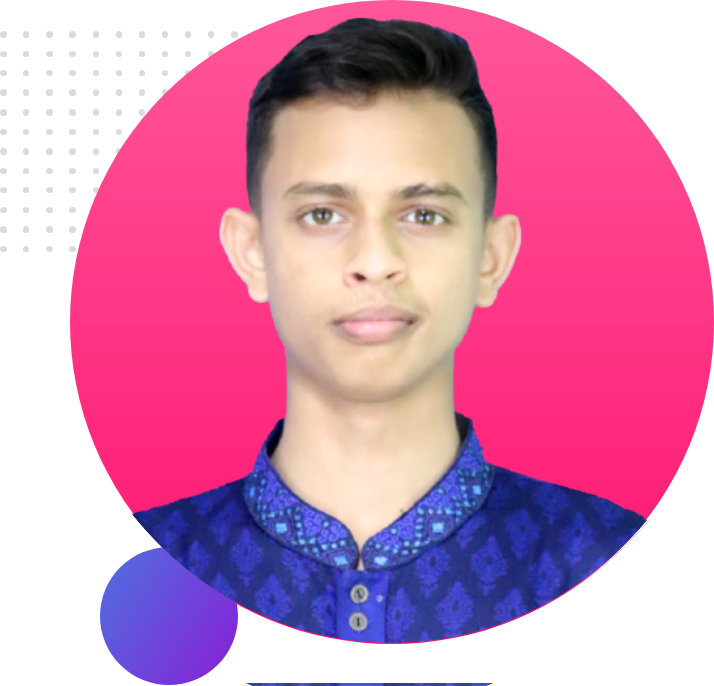
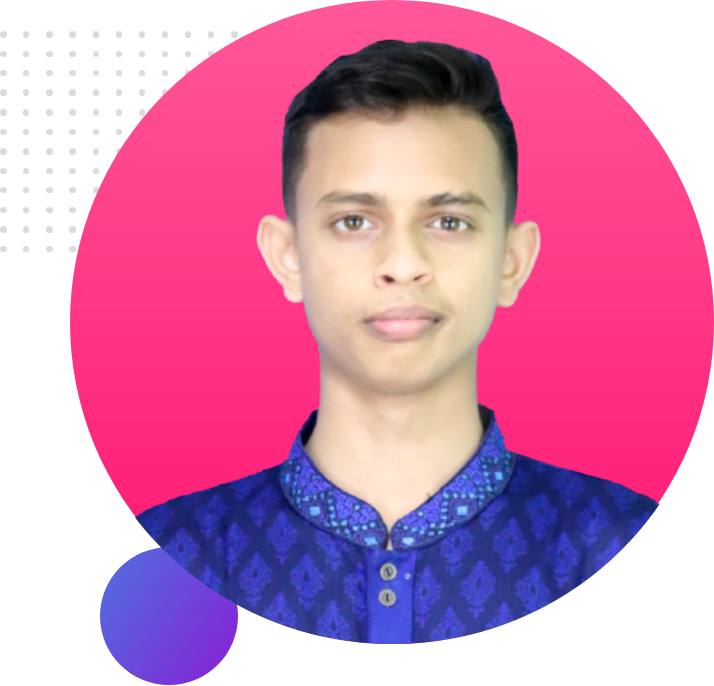
dream section done

Changed region(s): [[0.1849, 0.0, 0.9244, 0.949], [0.3389, 0.9796, 0.6779, 1.0]]

diff --git a/index.html b/index.html
@@ -29,6 +29,25 @@
             <img src="img/mahmud1.png" class="img">
         </div>
     </section>
+    <section class="dream-big">
+        <div class="left-column">
+            <img src="img/mahmud2.png" alt="">
+        </div>
+        <div class="right-column">
+            <h1>Dream Big</h1>
+            <h3>Become a web developer</h3>
+            <div>
+                <p class="d">I already learned the basic HTML and CSS. I can build any simple website. I can even teach
+                    my grandma how
+                    to make simple website. My goal is to build 3 websites and learn advanced topics. I can build any
+                    simple but
+                    gorgeous website.</p>
+            </div>
+            <div class="resume">
+                <a href="https://www.facebook.com/mahmudqudrati/" target="_blank" class="hire-btn">DOWNLOAD RESUME</a>
+            </div>
+        </div>
+    </section>
 </body>
 
 </html>

diff --git a/style.css b/style.css
@@ -24,15 +24,14 @@ h1 {
     background-image: url(img/top-banner.png);
     background-repeat: no-repeat;
 }
-.img{
-    width: 440px;
-    height: 480px;
-    margin-left: 20%;
+.right-col .img{
+    width: 80%;
+    margin-left: 15%;
     margin-top: 10%;
 }
 .left-col{
     width: 50%;
-    margin-left: 7%;
+    margin-left: 6%;
     margin-top: 1%;
 }
 .right-col{
@@ -43,6 +42,7 @@ h1 {
     color: gray;
     margin-bottom: 35px;
     padding-right: 20px;
+    text-align: justify;
 }
 .welcome{
     font-size: 65px;
@@ -57,11 +57,28 @@ h1 {
     font-weight: 600;
     letter-spacing: 2px;
 }
-
-
-
-
-
+.dream-big{
+    display: flex;
+    margin-top: 5%;
+}
+.left-column{
+    width: 50%;
+}
+.left-column img{
+    width: 70%;
+    margin-left: 8%;
+}
+.right-column{
+    width: 50%;
+}
+.d{
+    margin-right: 10%;
+    text-align: justify;
+    color: gray;
+}
+.resume{
+    margin-top: 7%;
+}
 
 
 
